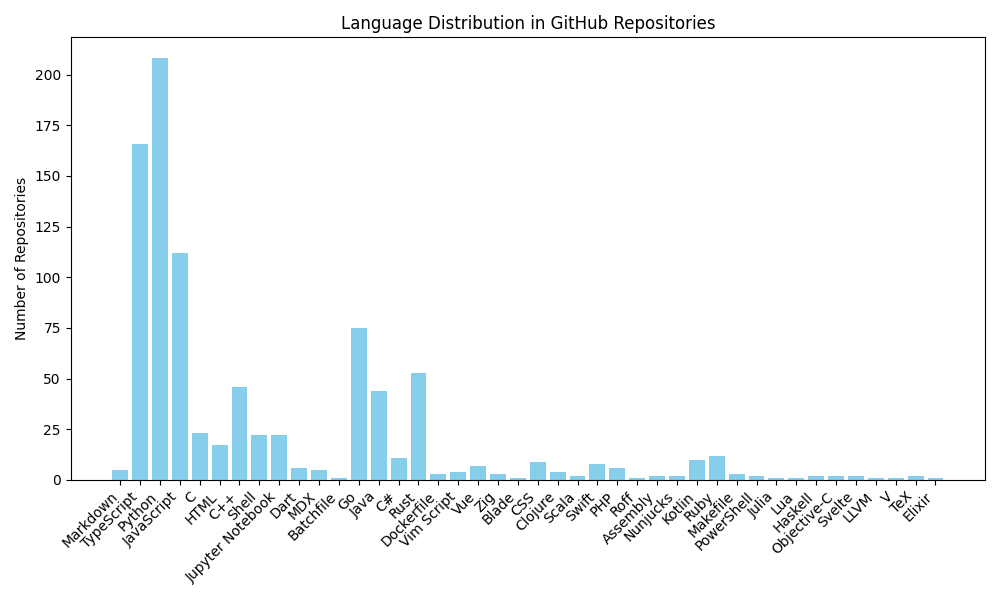
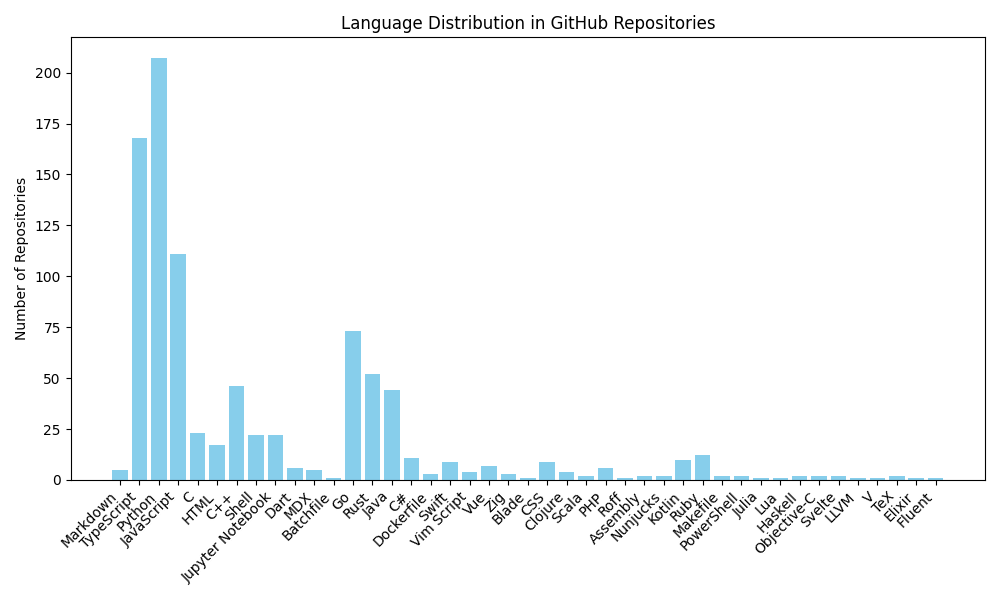
Update language distribution chart

diff --git a/README.md b/README.md
@@ -2,10 +2,10 @@
 
 ![Language Distribution Chart](language_distribution_bar_chart.png)
 
-Total repositories processed: 908
+Total repositories processed: 906
 
 Language distribution:
-Markdown: 5, TypeScript: 166, Python: 208, JavaScript: 112, C: 23, HTML: 17, C++: 46, Shell: 22, Jupyter Notebook: 22, Dart: 6, MDX: 5, Batchfile: 1, Go: 75, Java: 44, C#: 11, Rust: 53, Dockerfile: 3, Vim Script: 4, Vue: 7, Zig: 3, Blade: 1, CSS: 9, Clojure: 4, Scala: 2, Swift: 8, PHP: 6, Roff: 1, Assembly: 2, Nunjucks: 2, Kotlin: 10, Ruby: 12, Makefile: 3, PowerShell: 2, Julia: 1, Lua: 1, Haskell: 2, Objective-C: 2, Svelte: 2, LLVM: 1, V: 1, TeX: 2, Elixir: 1
+Markdown: 5, TypeScript: 168, Python: 207, JavaScript: 111, C: 23, HTML: 17, C++: 46, Shell: 22, Jupyter Notebook: 22, Dart: 6, MDX: 5, Batchfile: 1, Go: 73, Rust: 52, Java: 44, C#: 11, Dockerfile: 3, Swift: 9, Vim Script: 4, Vue: 7, Zig: 3, Blade: 1, CSS: 9, Clojure: 4, Scala: 2, PHP: 6, Roff: 1, Assembly: 2, Nunjucks: 2, Kotlin: 10, Ruby: 12, Makefile: 2, PowerShell: 2, Julia: 1, Lua: 1, Haskell: 2, Objective-C: 2, Svelte: 2, LLVM: 1, V: 1, TeX: 2, Elixir: 1, Fluent: 1
 
 
-_Last updated: 2026-03-29 01:59:31_
+_Last updated: 2026-04-05 02:01:11_
